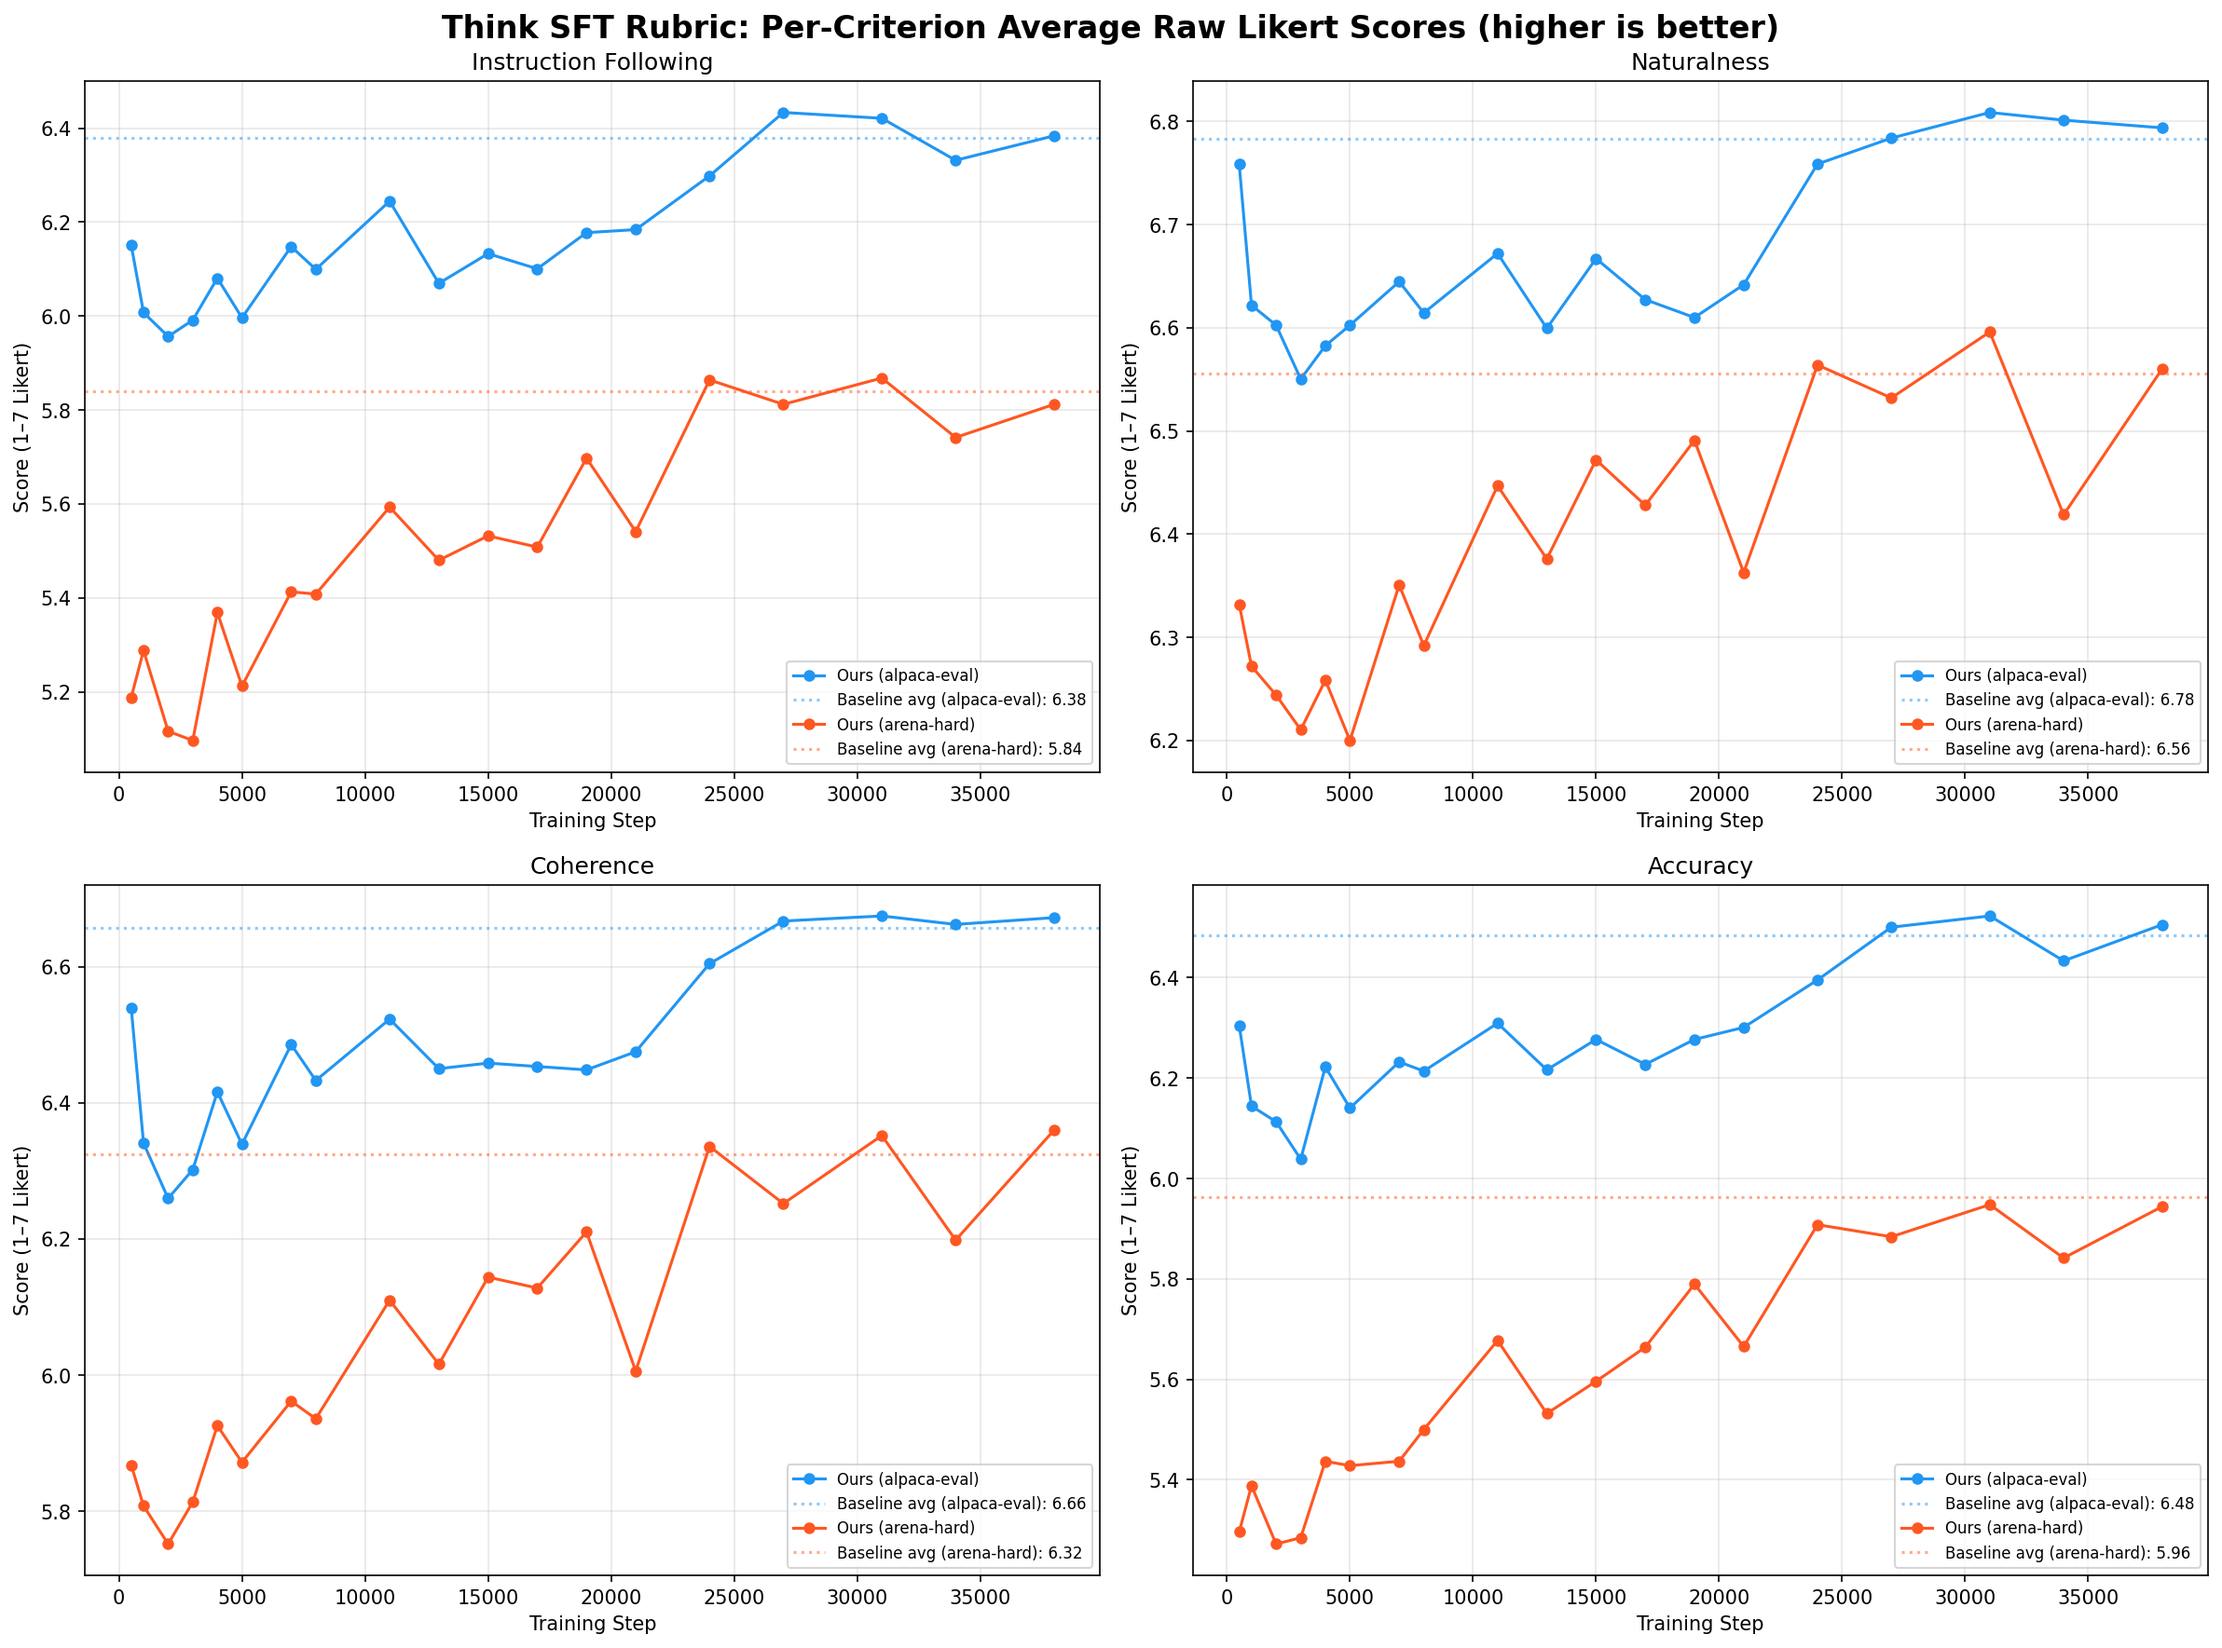
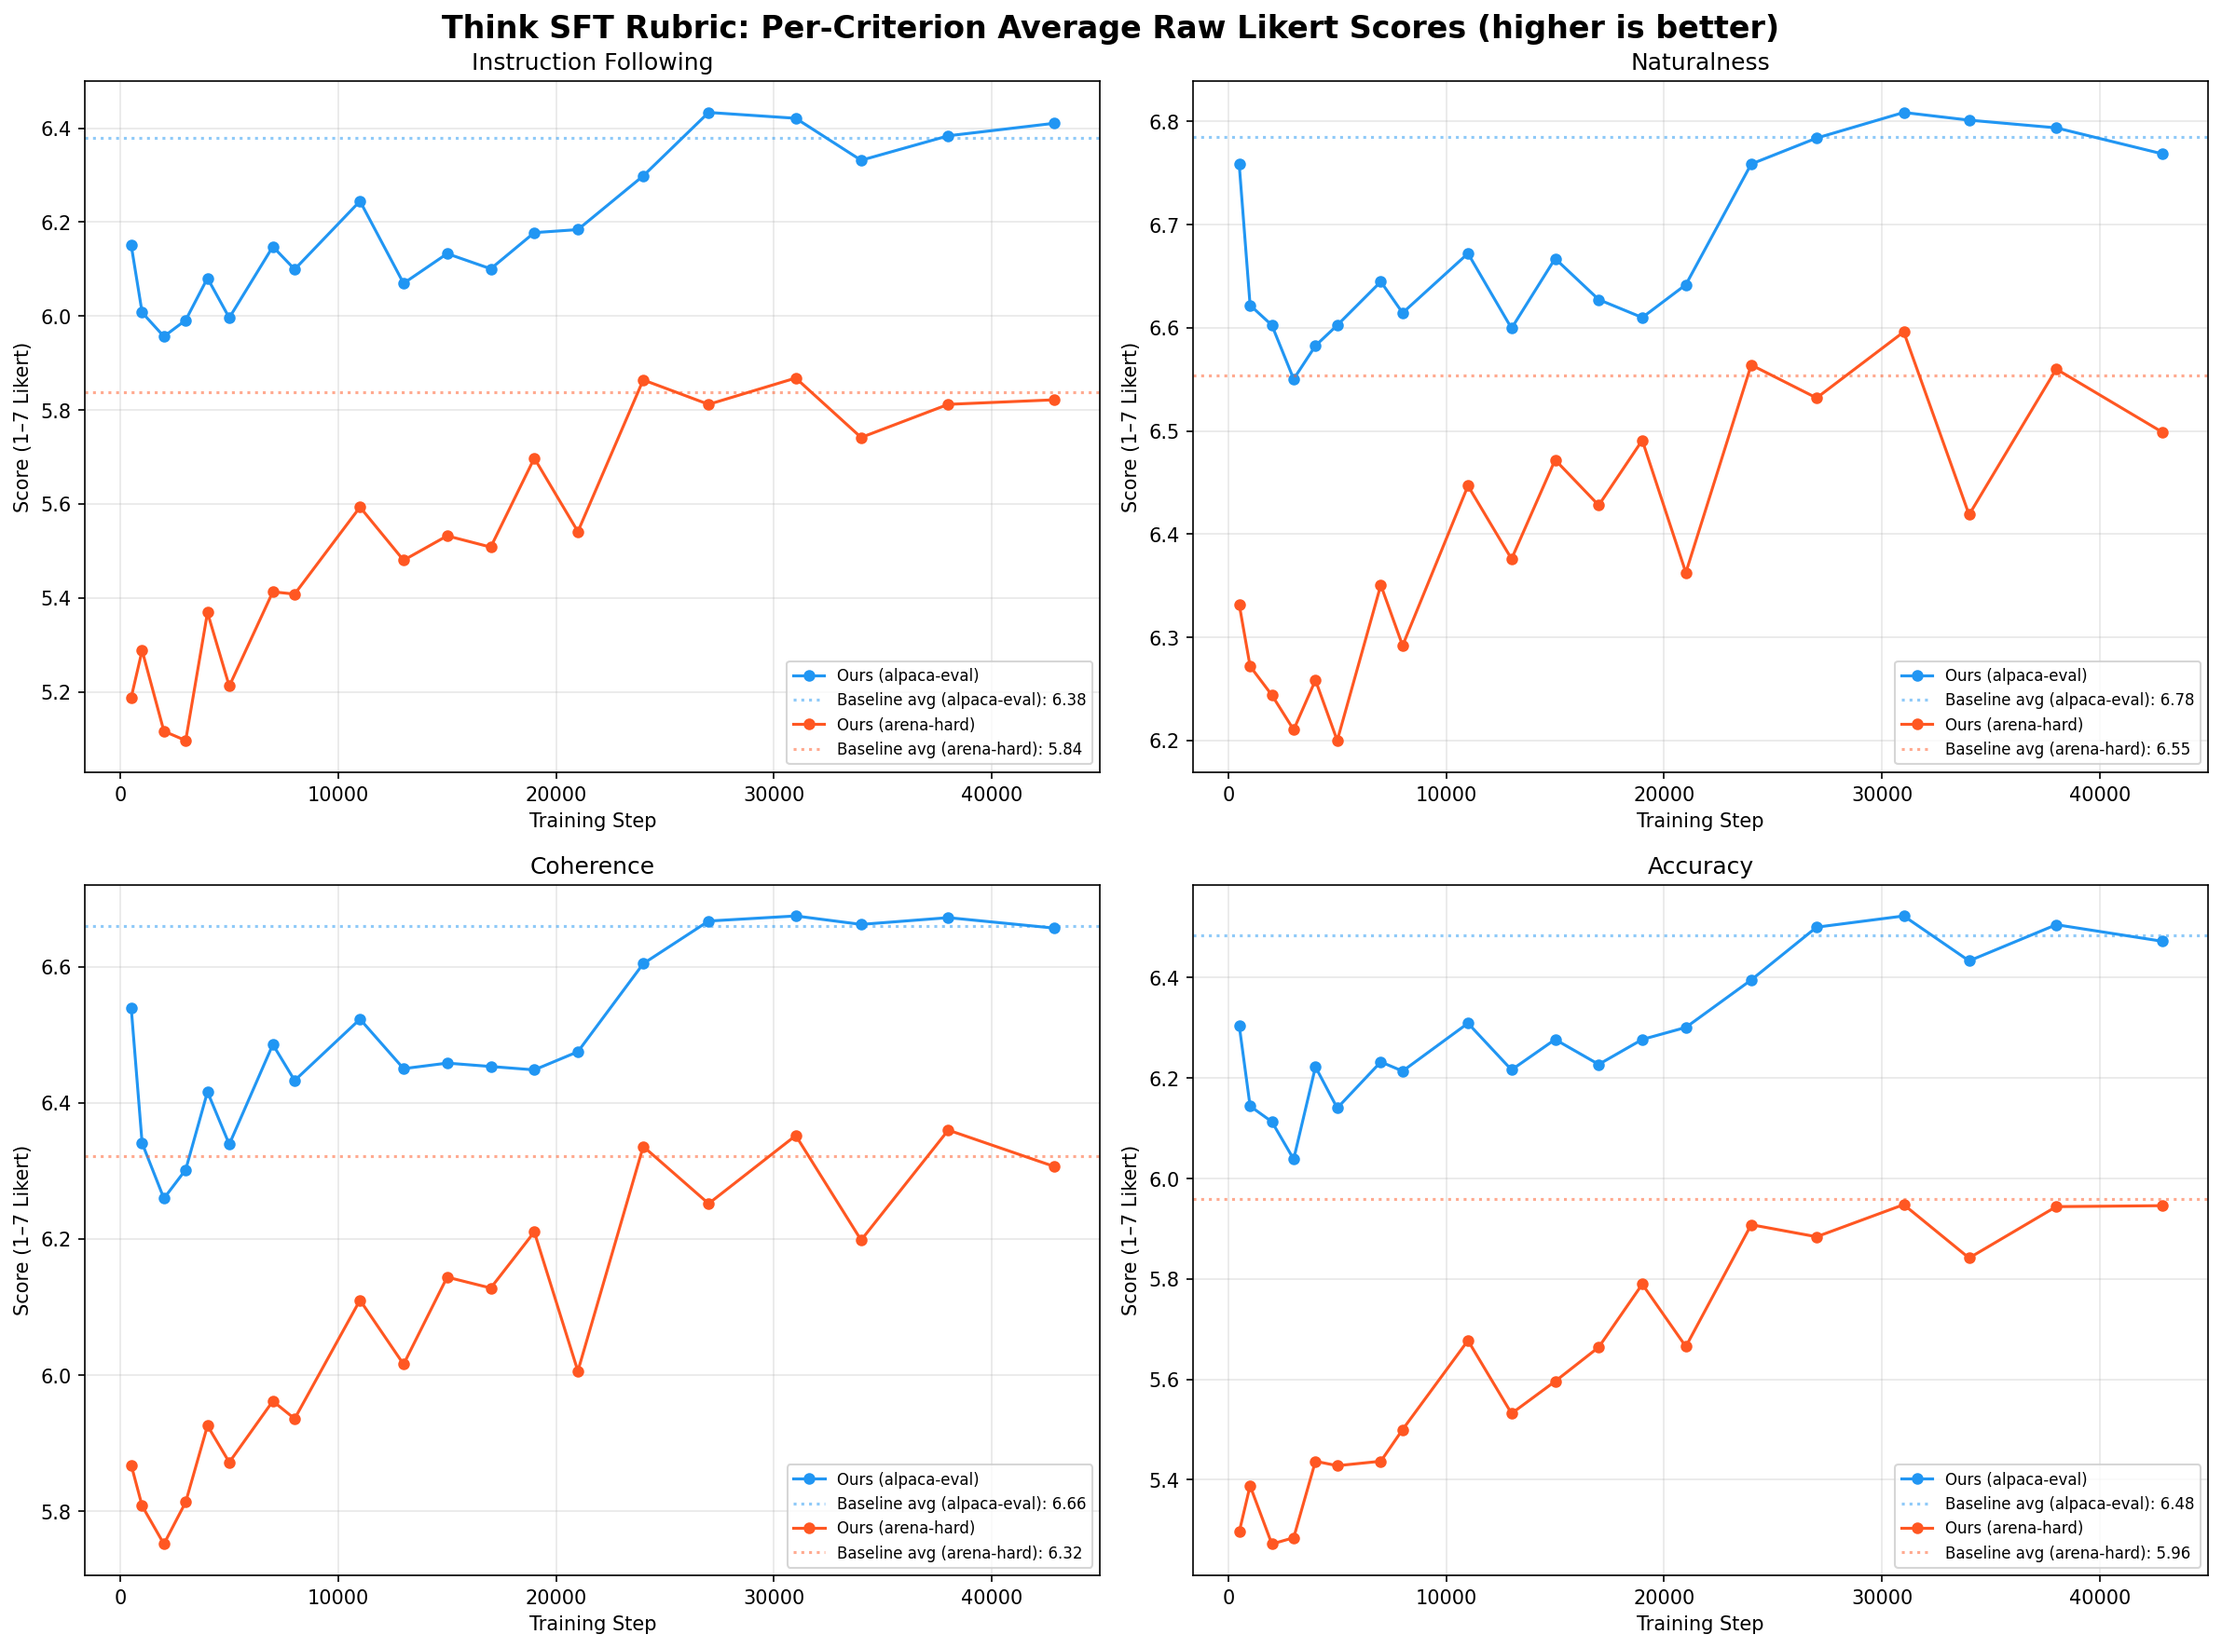
Include step 42856 (final checkpoint) in all training curve plots and tables
Step 42856 winrate-both and rubric results were already available from
the horeka evaluation runs but missing from the training curve figures.

diff --git a/oellm/evaluations/eval_results.md b/oellm/evaluations/eval_results.md
@@ -192,6 +192,7 @@ Our model win% vs baseline. 50% = parity. Both orderings (A-B and B-A) averaged.
 | 31000 | 49.6% | 48.6% |
 | 34000 | 49.0% | 51.4% |
 | 38000 | 49.4% | 48.5% |
+| 42856 | 51.1% | 50.5% |
 
 ### Winrate (swap_mode=fixed)
 
@@ -245,6 +246,7 @@ Average score (0–1 scale, higher = better). Delta = Ours - Baseline.
 | 31000 | 0.927 | 0.934 | +0.008 | 0.874 | 0.865 | -0.009 |
 | 34000 | 0.920 | 0.926 | +0.006 | 0.861 | 0.842 | -0.019 |
 | 38000 | 0.926 | 0.931 | +0.006 | 0.861 | 0.862 | +0.001 |
+| 42856 | 0.931 | 0.930 | -0.002 | 0.853 | 0.857 | +0.004 |
 
 ---
 
